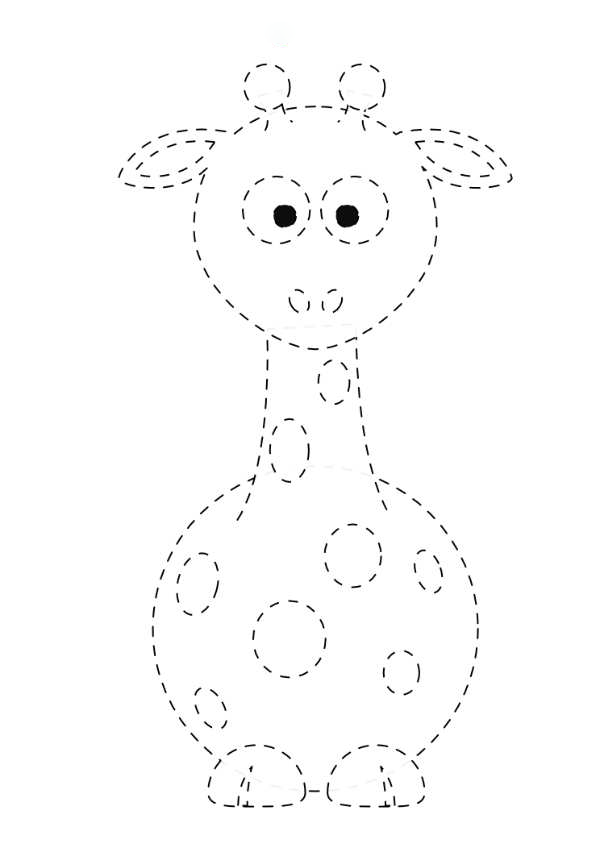
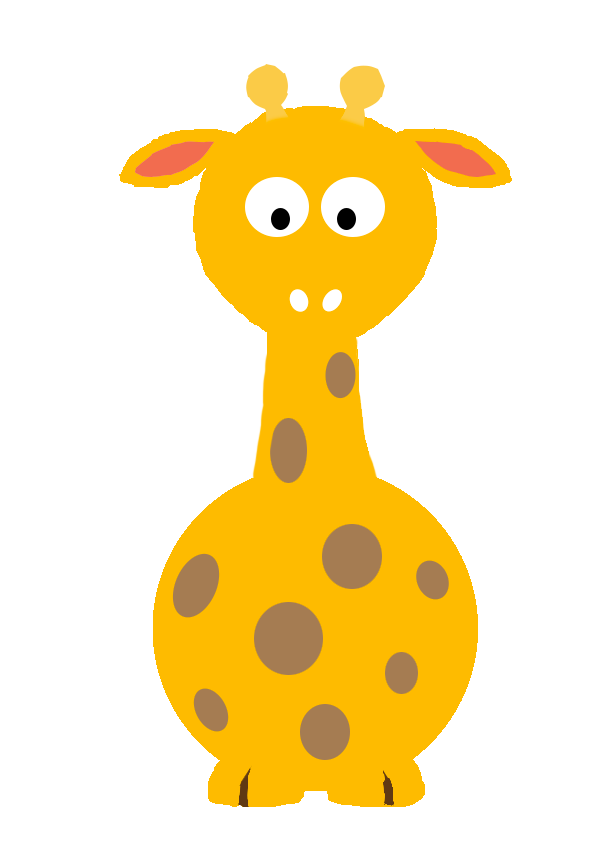
Timer ok

diff --git a/js/script.js b/js/script.js
@@ -1,15 +1,17 @@
 const $canvas = document.getElementById("game-board");
 const ctx = canvas.getContext("2d");
+let draw;
 let currentPoint;
 let currentNumberPoint;
 let followingNumberPoint = 1;
 let previousNumberPoint;
-let gameIntroText = document.querySelector('.game-intro p')
+let gameIntroText = document.querySelector(".game-intro p");
+let int;
 
 const drawings = {
   name: "girafe",
   img: "/images/girafe.png",
-  time: 30,
+  time: 60,
   errorsLeft: 3,
   points: [{
       x: 268,
@@ -184,19 +186,23 @@ const drawings = {
 //         errorsLeft : 3,
 //     }
 
-let draw;
+
 // création du board de dessin
 const startButton = document.getElementById("start-button");
 if (startButton) {
   startButton.addEventListener("click", (event) => {
-    ctx.clearRect(0, 0, canvas.width, canvas.height)
+    ctx.clearRect(0, 0, canvas.width, canvas.height);
     draw = new DrawingCanvas(
+      drawings.name,
       drawings.img,
       drawings.time,
       drawings.errorsLeft,
       drawings.points
     ); // girafe
     draw.drawPoints(drawings.points);
+    printTimer();
+    checkTimer();
+    displaynumberErrors(draw.errorsLeft);
     gameIntroText.innerHTML = "First step : Find the number 1";
   });
 }
@@ -225,19 +231,19 @@ canvas.addEventListener("click", (event) => {
       console.log("coordinate ok");
       currentNumberPoint = index + 1;
       previousNumberPoint = index - 1;
-      console.log(index + 1);
-      console.log(array.length);
-      // console.log("current point number" + currentNumberPoint);
-      // console.log("previous point number" + previousNumberPoint);
-      // si le numéro du point cliqué correspond aux numéros suivants à trouver alors on trace la ligne
+      // si le numéro est le premier alors on affiche l'instruction mais aucun trait ne se dessine
       if (element.x === array[0].x && element.y === array[0].y) {
         console.log("first element");
         followingNumberPoint++;
         gameIntroText.innerHTML = "Next steps : Find the number 2";
-        // TODO remplacer 2 par array.length
-      } else if (currentNumberPoint === 2) {
+        // lorsque j'arrive au dernier point alors c'est gagné et j'affiche mon dessin
+        // TODO : gérer la fermeture de ma forme -> clic sur le 1 ? ou fillForm ?
+        // TODO : remplacer 7 par array.length
+      } else if (currentNumberPoint === 7) {
         console.log("last element");
         draw.winner();
+
+        // si le numéro du point cliqué correspond aux numéros suivants à trouver alors on trace la ligne
       } else if (followingNumberPoint === currentNumberPoint) {
         followingNumberPoint++;
         console.log("now find number " + followingNumberPoint);
@@ -250,7 +256,7 @@ canvas.addEventListener("click", (event) => {
         //sinon décrémenter le compteur d 'erreurs et mettre à jour l'affichage
       } else {
         draw.errorsLeft--;
-        console.log("errors left " + draw.errorsLeft);
+        //console.log("errors left " + draw.errorsLeft);
         showErrorsLeft(draw.errorsLeft);
       }
     }
@@ -269,11 +275,40 @@ function drawLines(xFrom, yFrom, xTo, yTo) {
 }
 
 function showErrorsLeft(errors) {
-  if (errors === 0) {
-    draw.gameOver()
+  if (errors != 0) {
+    ctx.clearRect(0, 0, 300, 40);
+    ctx.font = "18px Arial";
+    ctx.fillText(`${errors} errors left`, 10, 30);
   } else {
-    ctx.clearRect(0, 0, 300, 33);
-    ctx.font = "30px Arial";
-    ctx.fillText(`${errors} errors left`, 30, 30);
+    draw.gameOver();
   }
+}
+
+function displaynumberErrors(errors) {
+  ctx.clearRect(0, 0, 300, 40);
+  ctx.font = "18px Arial";
+  ctx.fillText(`${errors} errors left`, 10, 30);
+}
+
+function printTimer() {
+  int = setInterval(() => {
+    draw.time--;
+    //console.log(draw.time);
+    ctx.clearRect((canvas.width - 200), 0, 300, 40);
+    ctx.font = "18px Arial";
+    ctx.fillText(`Time left : ${draw.time} second(s)`, (canvas.width - 200), 30);
+  }, 1000);
+}
+
+function checkTimer() {
+  setInterval(() => {
+    if (draw.time === 0) {
+      draw.gameOver();
+      stopTimer();
+    }
+  }, 1000);
+}
+
+function stopTimer() {
+  clearInterval(int);
 }

diff --git a/js/canvas.js b/js/canvas.js
@@ -1,6 +1,7 @@
 class DrawingCanvas {
-    constructor(img, time, errorsLeft, points) {
+    constructor(name, img, time, errorsLeft, points) {
         // chaque dessin à une image correspondante qui sera revelée à la fin / à passer en paramètre dans le constructor ?
+        this.name = name;
         this.img = new Image();
         this.img.src = img;
         // this.time = temps défini pour résoudre le dessin
@@ -25,17 +26,17 @@ class DrawingCanvas {
         // lors du lancement du jeu, on place les points avec leur numéro (index) sur le canvas
     }
     gameOver() {
-        // on définie une fonction qui permettra d'afficher le message de Gameover si le dessin n'est pas finalisé dans le temps imparti
-        //ou si le joueur a fait trop d'erreurs
-        if (this.errorsLeft === 0) {
-            ctx.clearRect(0, 0, canvas.width, canvas.height);
-            ctx.font = "30px Arial";
-            ctx.fillText(`Game Over`, canvas.width / 2, canvas.height / 2);
-        }
+        // on définie une fonction qui permettra d'afficher le message de Gameover si le joueur a fait trop d'erreurs
+        ctx.clearRect(0, 0, canvas.width, canvas.height);
+        ctx.font = "30px Arial";
+        ctx.fillText(`Game Over`, canvas.width / 2, canvas.height / 2);
+        stopTimer();
     }
     winner() {
         // on définie une fonction qui permettra d'afficher l'image associé pour révéler le dessin quand tous les points sont rattachés.
         ctx.clearRect(0, 0, canvas.width, canvas.height);
         ctx.drawImage(this.img, 0, 0)
+        gameIntroText.innerHTML = "Congratulations, you find the " + this.name;
+        stopTimer();
     }
 }

diff --git a/styles/style.css b/styles/style.css
@@ -49,5 +49,4 @@ body button {
   position: absolute;
   left: 0;
   top: 0;
-  border: 1px solid black;
 }
